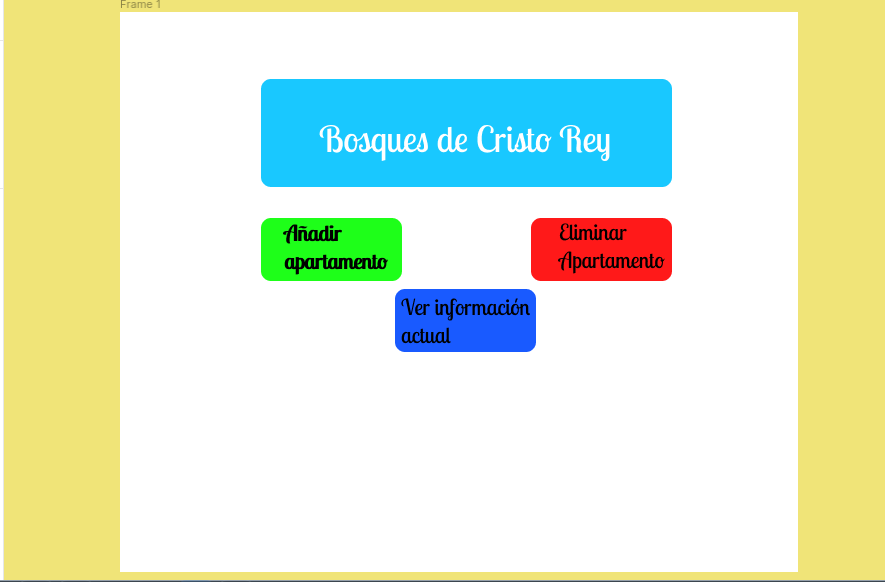
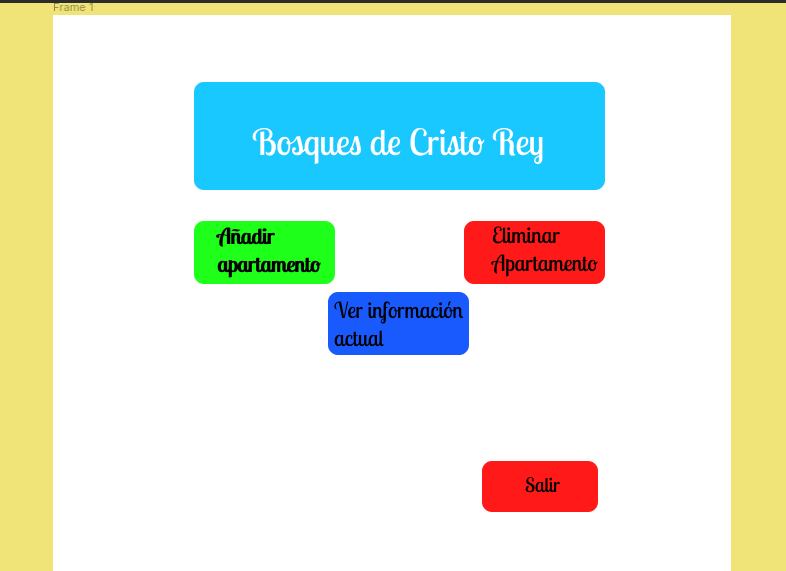
Detalles Readme

Changed region(s): [[0.0, 0.0, 1.0, 1.0], [0.2443, 0.1191, 0.7939, 0.6252], [0.6107, 0.8039, 0.7634, 0.9229]]

diff --git a/Propuesta/README.md b/Propuesta/README.md
@@ -24,11 +24,15 @@ Una vez que ingrese correctamente los datos ya sea el administrador o el usuario
 ### Creación de nuevo usuario
 - Si se trata de un nuevo cliente, entonces se solicitan los siguientes datos:
 ![App Screenshot](https://github.com/JosueC07183/ProyectoIE0217/blob/main/Propuesta/Images/registro.png?raw=true)
+
 Los espacios para rellenar la información tendrán una expresión regular (cuando lo amerite) para procurar que el cliente digite la información pertinente. Cuando da click el botón de ``Registrarse`` la idea es que regrese a la página inicial donde ahora si pueda digitar sus datos recién hechos y puede acceder al sistema de información de los apartamentos.
->Nota: La información de los clientes se manejará de manera local en un archivo .txt
 
 
 >Nota: Toda la información de los usuarios se maneja de manera local en un archivo .txt
+
+### Vista administrador
+- Cuando el administrador se registra le aparecerán 3 botones. El primero ``Añadir apartamento`` le permite crear un nuevo apartamento con el uso de una clase: ``add_Aparta`` que tendrá todo lo necesario (métodos) para añadir las características a un nuevo hogar. El botón ``Eliminar apartamento`` básicamente eliminará la información de cierto apartamento. El botón ``Ver información actual`` accederá al estado actual de los apartamentos, imprimirá la información sobre cuales apartamentos están disponibles y cuales no. Luego, el botón ``Salir`` cierra sesión y se mostrará la página de inicio.
+
 
 
 
